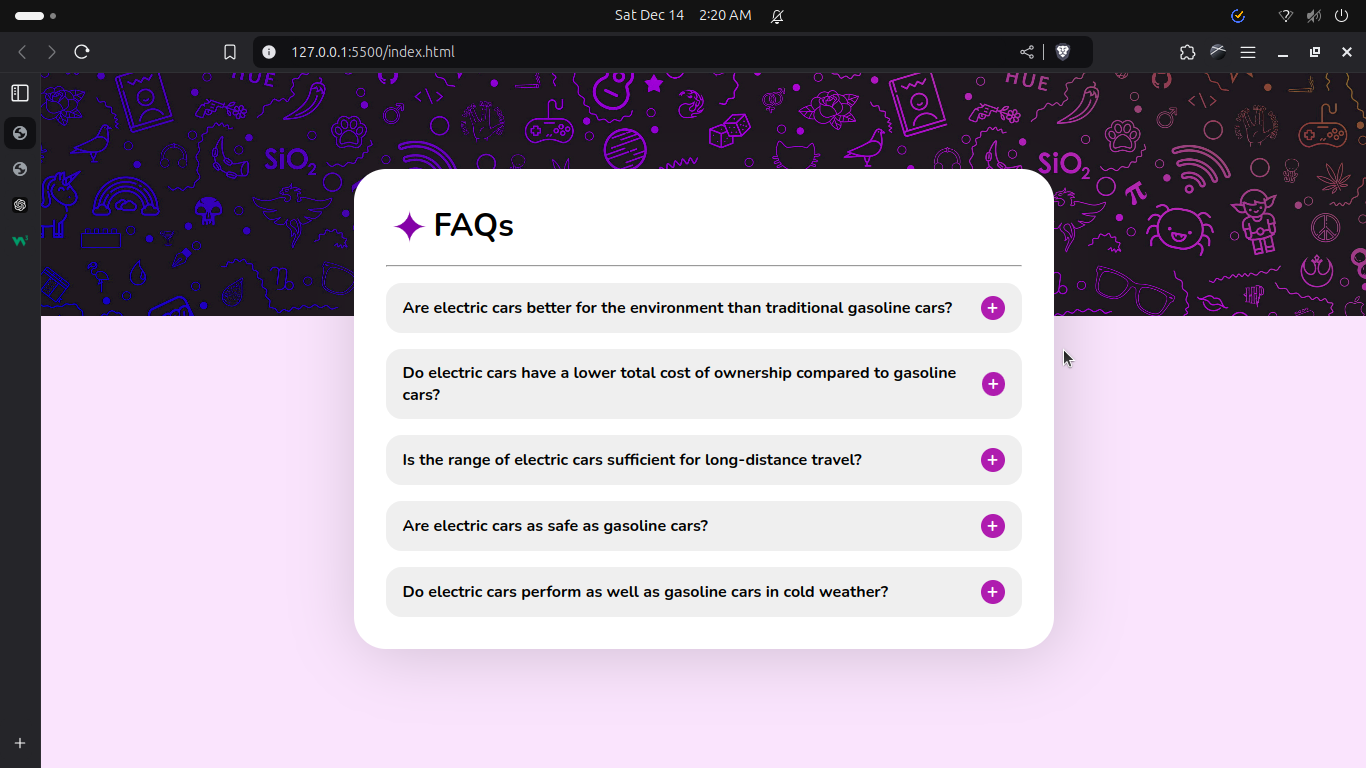
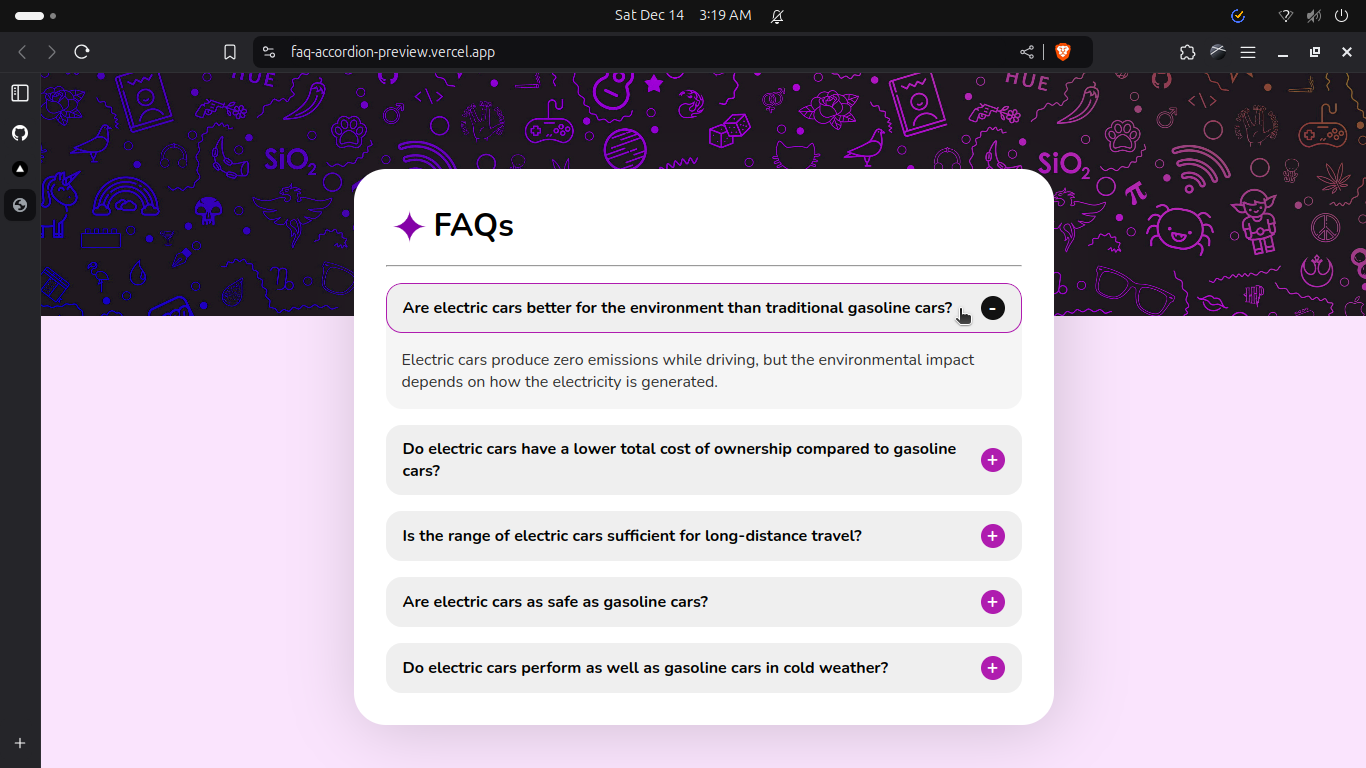
README Update

diff --git a/README.md b/README.md
@@ -16,7 +16,7 @@ Task implementation: [capitalize.js.](./task1-algorithmic-thinking/capitalize.js
 ## Task 2: : Frontend Development Challenge: Simple FAQ Accordion
 
 - Task implementation: [index.html](./task2-faq-accordion/index.html)
-- Live preview: 
+- Live preview: [https://faq-accordion-preview.vercel.app/](https://faq-accordion-preview.vercel.app/)
 ### Screenshots:
 
 #### Desktop/Landscape View:
